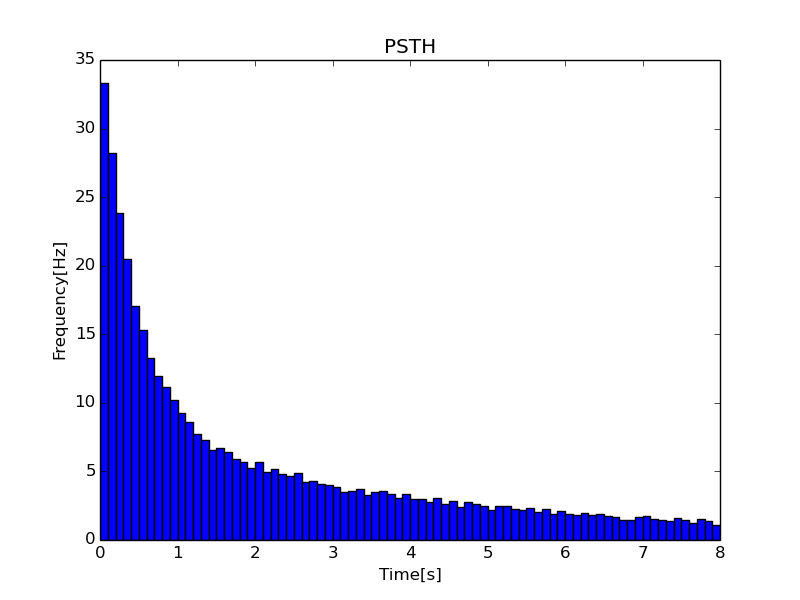
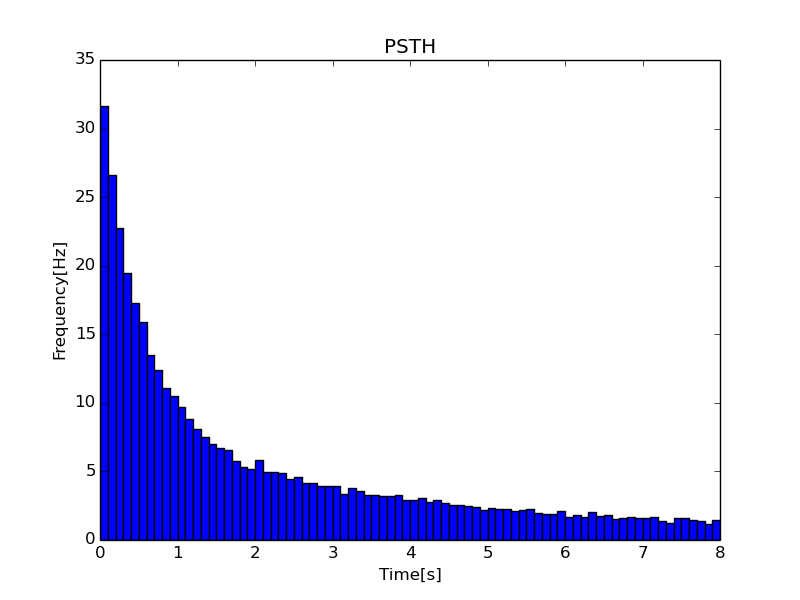
愛に死ね

diff --git a/single-src/draw_DoseCurve.py b/single-src/draw_DoseCurve.py
@@ -25,6 +25,8 @@ from spike_data import Spike_Data
 
 data = []
 pattern = re.compile(r'Spikerecord_PN_Dose(?P<dose>\d+)_(?P<id>\d+).dat')
+pattern2 = re.compile(r'Spikerecord_LN_Dose(?P<dose>\d+)_(?P<id>\d+).dat')
+
 if len(sys.argv) is 1:
     print "NO FILENAME"
 elif len(sys.argv) is 2:
@@ -42,6 +44,7 @@ elif len(sys.argv) is 2:
             if(os.path.isfile(full_dir)):
                 ext = os.path.splitext(full_dir)
                 if(ext[1] == '.dat'):
+                    #print "!!!!!",ext
                     if '_PN_' in full_dir:
                         print full_dir                    
                         result = pattern.search(fname)
@@ -53,6 +56,18 @@ elif len(sys.argv) is 2:
                         print sd.peakFreq, sd.avgFreq
                         data.append([int(dose), sd.peakFreq, sd.avgFreq])
                         sd = None
+                    elif '_LN_' in full_dir:
+                        print full_dir                    
+                        result = pattern2.search(fname)
+                        freq=result.group('dose')
+                        sd = Spike_Data()
+                        sd.Read(full_dir)
+                        sd.calc_iFreq()
+                        sd.calc_avgFreq()
+                        print sd.peakFreq, sd.avgFreq
+                        data.append([int(freq), sd.peakFreq, sd.avgFreq])
+                        sd = None
+
     else:
         print "Wrong directory or filename"
 else:
@@ -60,7 +75,18 @@ else:
 
 print data
 data = np.array(data)
-data.sort(axis=0)
+print len(data)
+
+for i in range(len(data)-1):
+    for j in range(i+1, len(data)):
+        #print data[i][0], data[j][0]
+        temp = np.copy(data[i])
+        #print temp
+        if(data[i][0] > data[j][0]):
+            data[i] = data[j]
+            #print temp
+            data[j] = temp
+            #print temp, data[i], data[j]
 print data
 print data.T
 transpose_data = data.T

diff --git a/single-src/draw_FreqCurve.py b/single-src/draw_FreqCurve.py
@@ -25,6 +25,7 @@ from spike_data import Spike_Data
 
 data = []
 pattern = re.compile(r'Spikerecord_PN_FREQ(?P<dose>\d+)_(?P<id>\d+).dat')
+pattern2 = re.compile(r'Spikerecord_LN_FREQ(?P<dose>\d+)_(?P<id>\d+).dat')
 
 if len(sys.argv) is 1:
     print "NO FILENAME"
@@ -54,6 +55,19 @@ elif len(sys.argv) is 2:
                         print sd.peakFreq, sd.avgFreq
                         data.append([int(freq), sd.peakFreq, sd.avgFreq])
                         sd = None
+                    elif '_LN_' in full_dir:
+                        print full_dir                    
+                        result = pattern2.search(fname)
+                        freq=result.group('dose')
+                        sd = Spike_Data()
+                        sd.Read(full_dir)
+                        sd.calc_iFreq()
+                        sd.calc_avgFreq()
+                        print sd.peakFreq, sd.avgFreq
+                        data.append([int(freq), sd.peakFreq, sd.avgFreq])
+                        sd = None
+
+
     else:
         print "Wrong directory or filename"
 else:
@@ -108,5 +122,3 @@ fig2name="%s/FreqCurve_avgFreq.png"%(target_dir)
 fig2.savefig(fig2name)
 
 plt.show()
-
-

diff --git a/input/spiketiming/spike_analyzer.py b/input/spiketiming/spike_analyzer.py
@@ -43,9 +43,9 @@ BIN      = 0.1 # 0.1s
 def PSTH(nfiles,nstims,dose):
     if(nstims!=1):
         steps = int(nstims*INTERVAL/BIN)
-        
     elif(nstims==1):
         steps = int(8.0/BIN)
+        INTERVAL = 8.0
         print "steps1",steps
     else:
         print "***ERROR IN PSTH***"
@@ -74,4 +74,4 @@ def PSTH(nfiles,nstims,dose):
     plt.savefig(save_fn)
     plt.show()
 
-PSTH(1000,30,2000)
+PSTH(1000,1,10000)
